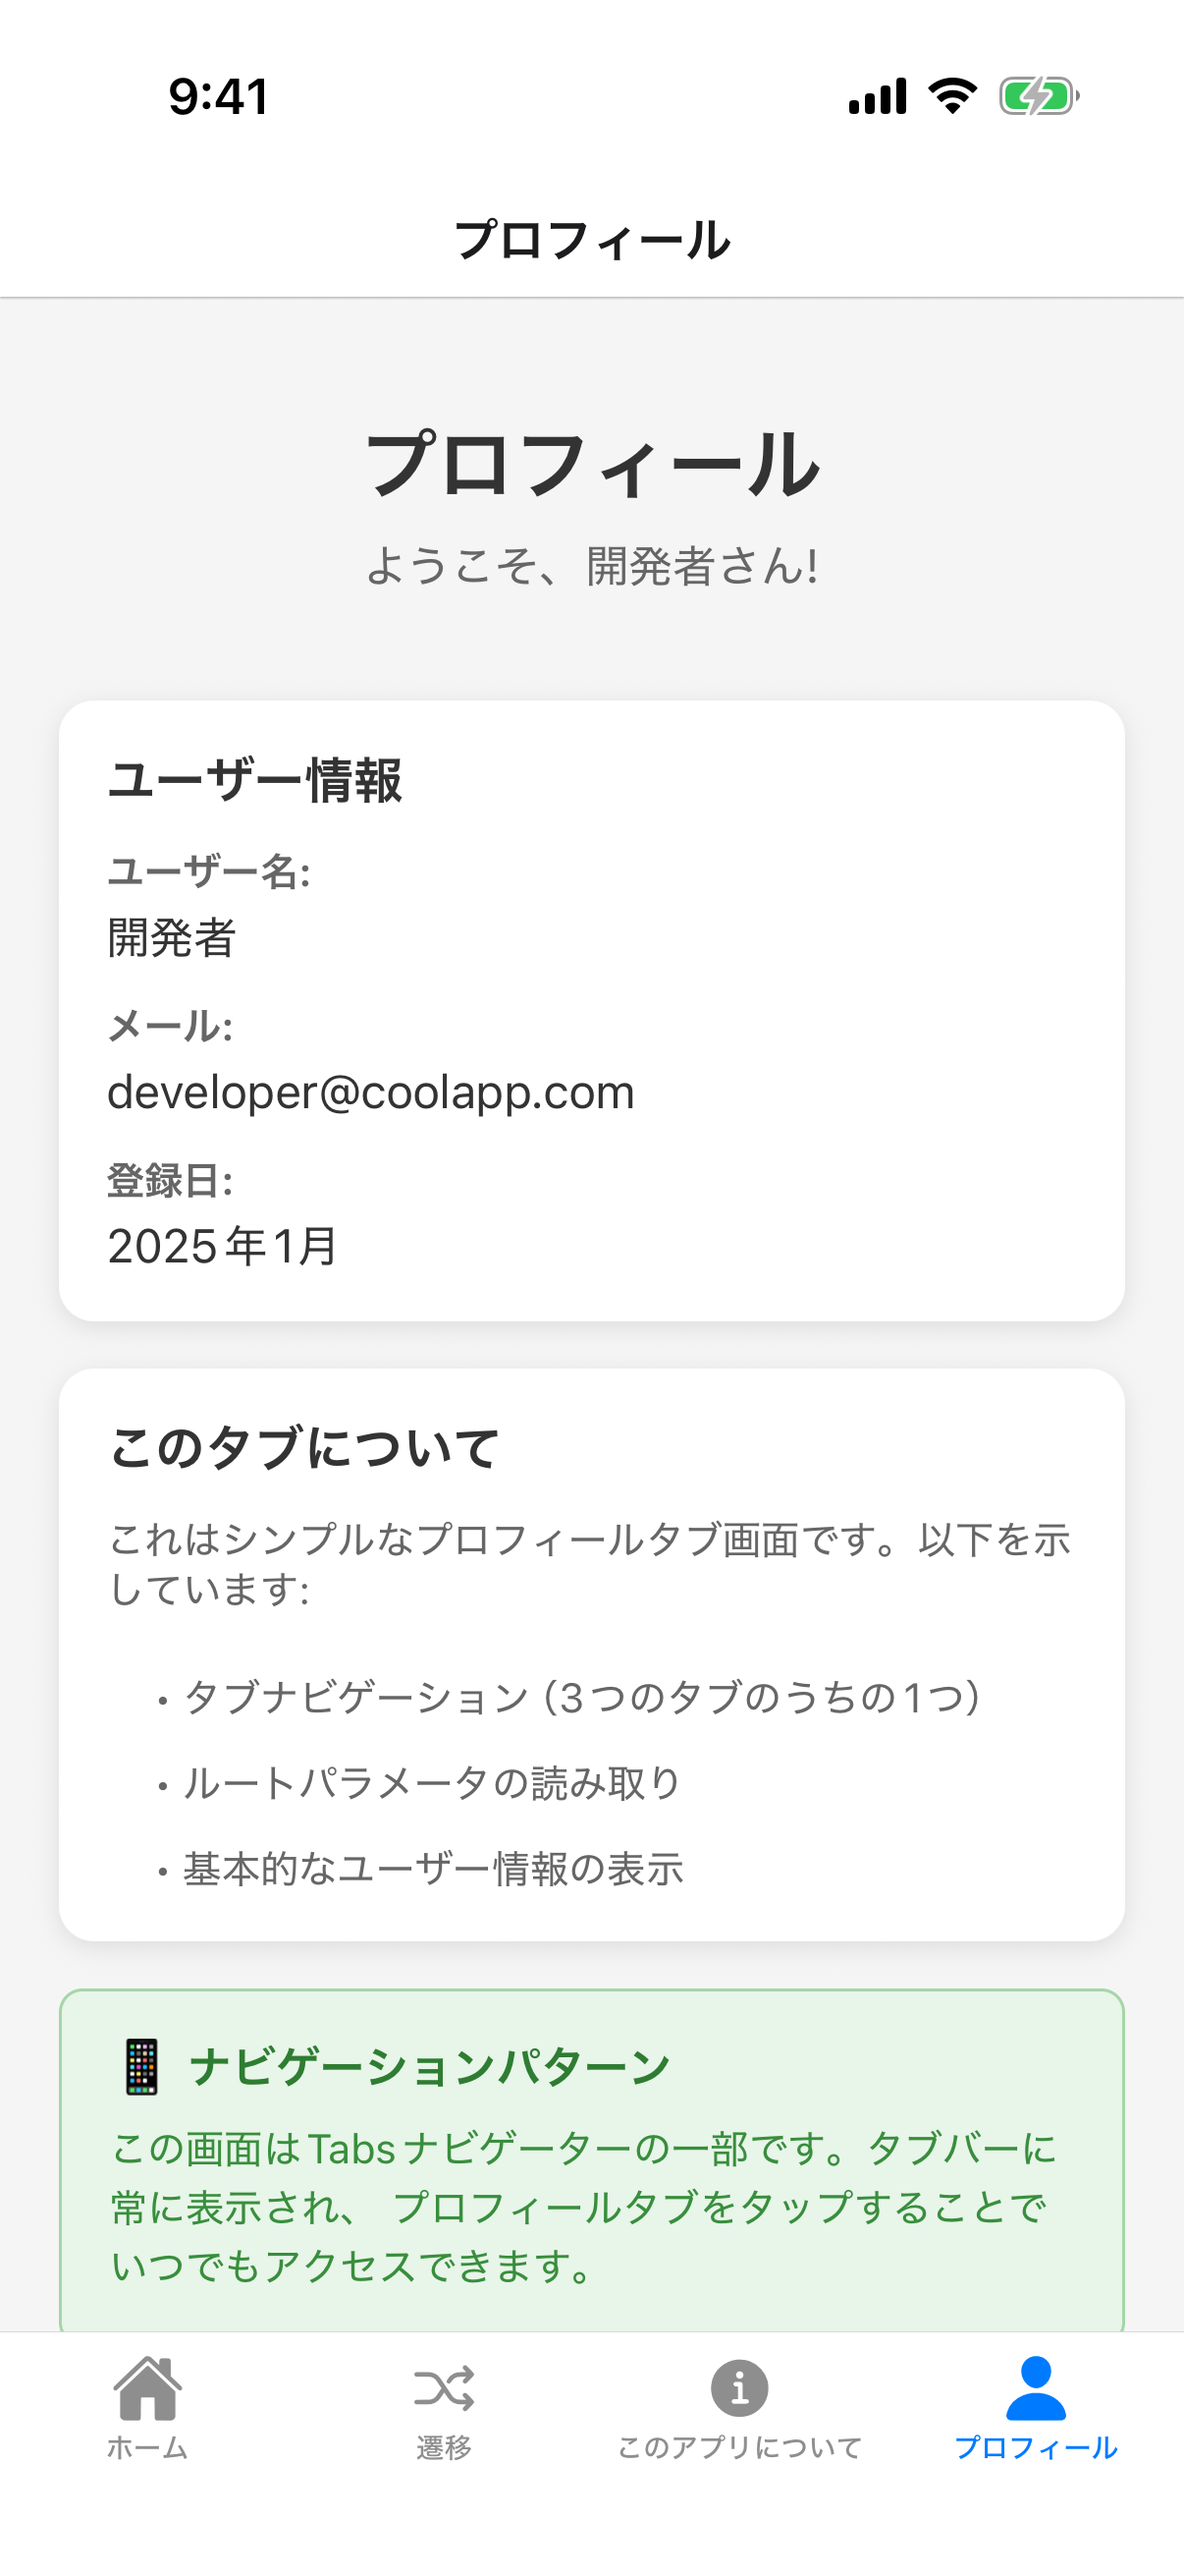
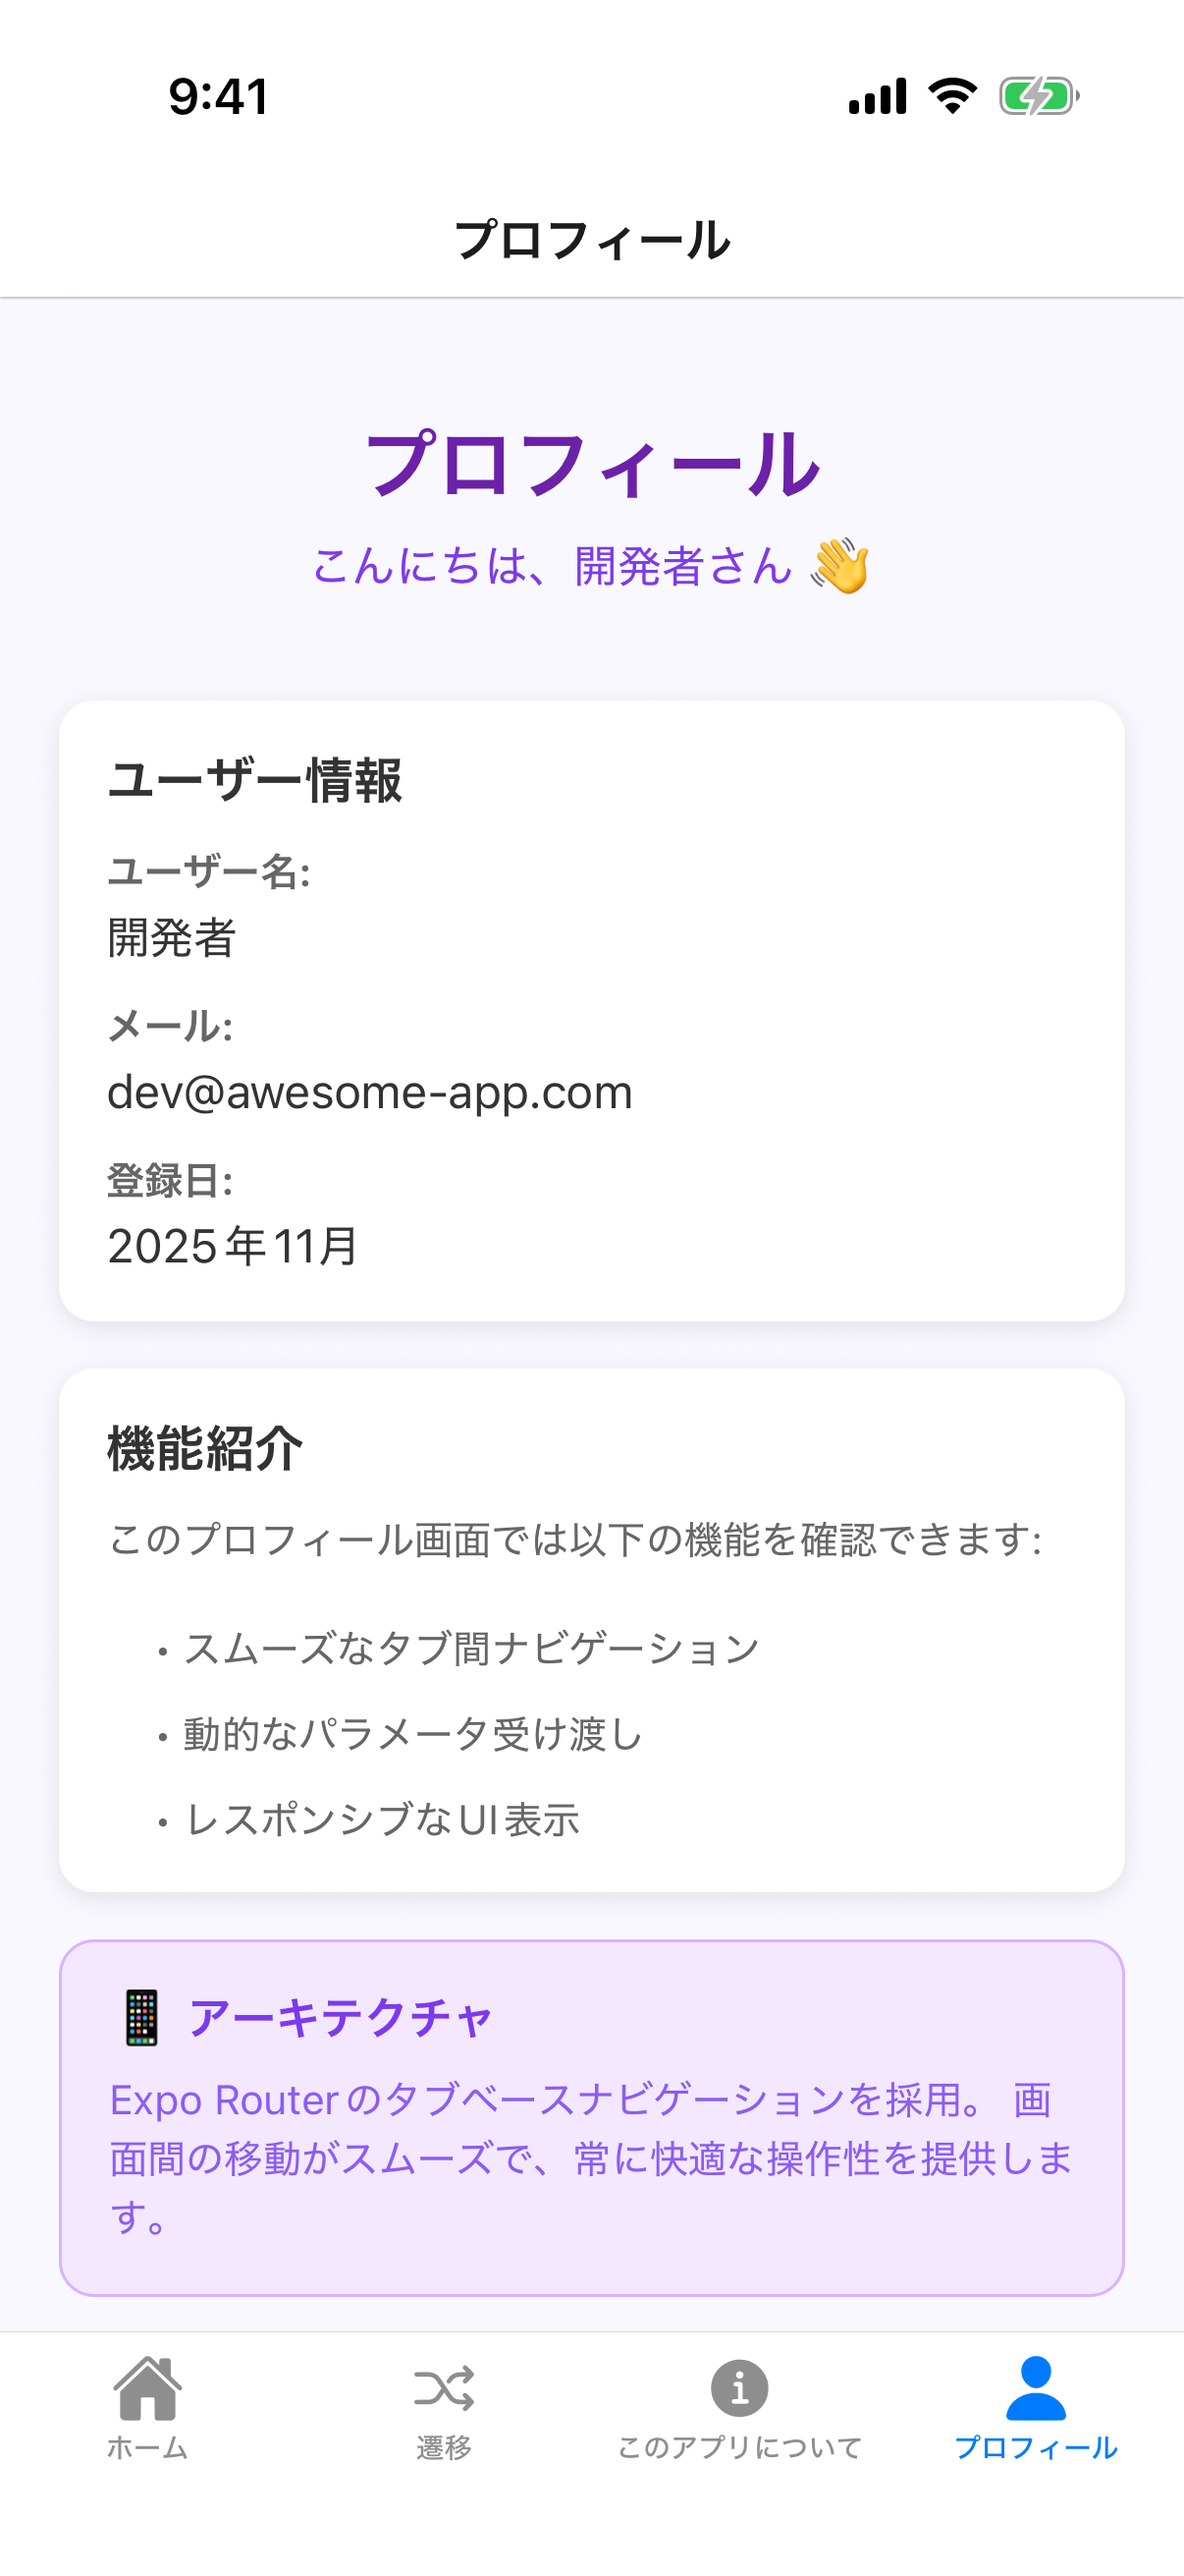
feat: UIのテキストとスタイルを更新し、アニメーション待機を追加

diff --git a/apps/cool-app/app/(tabs)/profile/index.tsx b/apps/cool-app/app/(tabs)/profile/index.tsx
@@ -11,7 +11,7 @@ export default function ProfileScreen() {
       <View style={styles.content}>
         <View style={styles.header}>
           <Text style={styles.title}>プロフィール</Text>
-          <Text style={styles.subtitle}>ようこそ、{username}さん!</Text>
+          <Text style={styles.subtitle}>こんにちは、{username}さん 👋</Text>
         </View>
 
         <View style={styles.card}>
@@ -24,38 +24,38 @@ export default function ProfileScreen() {
 
             <View style={styles.row}>
               <Text style={styles.label}>メール:</Text>
-              <Text style={styles.value}>developer@coolapp.com</Text>
+              <Text style={styles.value}>dev@awesome-app.com</Text>
             </View>
 
             <View style={styles.row}>
               <Text style={styles.label}>登録日:</Text>
-              <Text style={styles.value}>2025年1月</Text>
+              <Text style={styles.value}>2025年11月</Text>
             </View>
           </View>
         </View>
 
         <View style={styles.card}>
-          <Text style={styles.cardTitle}>このタブについて</Text>
+          <Text style={styles.cardTitle}>機能紹介</Text>
           <View style={styles.cardContent}>
             <Text style={styles.infoText}>
-              これはシンプルなプロフィールタブ画面です。以下を示しています:
+              このプロフィール画面では以下の機能を確認できます:
             </Text>
-            <Text style={styles.bullet}>• タブナビゲーション（3つのタブのうちの1つ）</Text>
-            <Text style={styles.bullet}>• ルートパラメータの読み取り</Text>
-            <Text style={styles.bullet}>• 基本的なユーザー情報の表示</Text>
+            <Text style={styles.bullet}>• スムーズなタブ間ナビゲーション</Text>
+            <Text style={styles.bullet}>• 動的なパラメータ受け渡し</Text>
+            <Text style={styles.bullet}>• レスポンシブなUI表示</Text>
           </View>
         </View>
 
         <View style={styles.highlightBox}>
-          <Text style={styles.highlightTitle}>📱 ナビゲーションパターン</Text>
+          <Text style={styles.highlightTitle}>📱 アーキテクチャ</Text>
           <Text style={styles.highlightText}>
-            この画面はTabsナビゲーターの一部です。タブバーに常に表示され、
-            プロフィールタブをタップすることでいつでもアクセスできます。
+            Expo Routerのタブベースナビゲーションを採用。
+            画面間の移動がスムーズで、常に快適な操作性を提供します。
           </Text>
         </View>
 
         <View style={styles.section}>
-          <Text style={styles.sectionTitle}>アプリ情報</Text>
+          <Text style={styles.sectionTitle}>詳細情報</Text>
           <Pressable
             style={styles.licenseButton}
             onPress={() => router.push("/license")}
@@ -72,7 +72,7 @@ export default function ProfileScreen() {
 const styles = StyleSheet.create({
   container: {
     flex: 1,
-    backgroundColor: "#f5f5f5",
+    backgroundColor: "#faf8ff",
   },
   content: {
     padding: 20,
@@ -86,11 +86,11 @@ const styles = StyleSheet.create({
   title: {
     fontSize: 28,
     fontWeight: "bold",
-    color: "#333",
+    color: "#6b21a8",
   },
   subtitle: {
     fontSize: 16,
-    color: "#666",
+    color: "#7c3aed",
   },
   card: {
     backgroundColor: "#fff",
@@ -134,22 +134,22 @@ const styles = StyleSheet.create({
     marginLeft: 16,
   },
   highlightBox: {
-    backgroundColor: "#e8f5e9",
+    backgroundColor: "#f3e8ff",
     padding: 16,
-    borderRadius: 8,
+    borderRadius: 12,
     borderWidth: 1,
-    borderColor: "#a5d6a7",
+    borderColor: "#d8b4fe",
   },
   highlightTitle: {
     fontSize: 16,
     fontWeight: "600",
-    color: "#2e7d32",
+    color: "#7c3aed",
     marginBottom: 8,
   },
   highlightText: {
     fontSize: 14,
     lineHeight: 20,
-    color: "#388e3c",
+    color: "#8b5cf6",
   },
   section: {
     gap: 12,
@@ -176,7 +176,7 @@ const styles = StyleSheet.create({
   licenseButtonText: {
     fontSize: 16,
     fontWeight: "500",
-    color: "#007AFF",
+    color: "#8b5cf6",
   },
   arrow: {
     fontSize: 24,

diff --git a/apps/cool-app/app/(tabs)/about/index.tsx b/apps/cool-app/app/(tabs)/about/index.tsx
@@ -17,19 +17,19 @@ export default function AboutScreen() {
 
       <View style={styles.content}>
         <Text style={styles.text}>
-          これはExpo Routerのナビゲーションパターンを学習するためのデモアプリです。
+          モダンなナビゲーションパターンを体験できるデモアプリケーションです。
         </Text>
 
         <View style={styles.infoBox}>
           <Text style={styles.infoTitle}>📱 タブ内プッシュ遷移デモ</Text>
           <Text style={styles.infoText}>
-            このタブにも独自のスタックナビゲーターがあります。
-            下記の技術スタックをタップすると、タブバーが表示されたまま詳細画面に遷移します。
+            各タブに独立したスタックナビゲーションを実装。
+            技術スタックをタップすると、タブバーを維持したまま詳細画面へ遷移できます。
           </Text>
         </View>
 
-        <Text style={styles.sectionTitle}>使用技術</Text>
-        <Text style={styles.subtitle}>タップして詳細を表示</Text>
+        <Text style={styles.sectionTitle}>テクノロジースタック</Text>
+        <Text style={styles.subtitle}>各技術の詳細をチェック ✨</Text>
         {TECHNOLOGIES.map((tech) => (
           <Pressable
             key={tech.name}
@@ -45,7 +45,7 @@ export default function AboutScreen() {
       <View style={styles.navigation}>
         <Link href="/profile" asChild>
           <Pressable style={styles.button}>
-            <Text style={styles.buttonText}>プロフィールを見る</Text>
+            <Text style={styles.buttonText}>プロフィールページへ</Text>
           </Pressable>
         </Link>
 
@@ -54,7 +54,7 @@ export default function AboutScreen() {
           onPress={() => router.push("/help")}
         >
           <Text style={[styles.buttonText, styles.secondaryButtonText]}>
-            ヘルプを開く
+            サポートセンター
           </Text>
         </Pressable>
       </View>
@@ -65,13 +65,13 @@ export default function AboutScreen() {
 const styles = StyleSheet.create({
   container: {
     flex: 1,
-    backgroundColor: "#f5f5f5",
+    backgroundColor: "#faf8ff",
   },
   title: {
     fontSize: 28,
     fontWeight: "bold",
     marginBottom: 20,
-    color: "#333",
+    color: "#6b21a8",
     padding: 20,
     paddingBottom: 0,
   },
@@ -119,22 +119,22 @@ const styles = StyleSheet.create({
     color: "#ccc",
   },
   infoBox: {
-    backgroundColor: "#e3f2fd",
+    backgroundColor: "#f3e8ff",
     padding: 16,
-    borderRadius: 8,
+    borderRadius: 12,
     borderWidth: 1,
-    borderColor: "#90caf9",
+    borderColor: "#d8b4fe",
     gap: 8,
   },
   infoTitle: {
     fontSize: 16,
     fontWeight: "600",
-    color: "#1565c0",
+    color: "#7c3aed",
   },
   infoText: {
     fontSize: 14,
     lineHeight: 20,
-    color: "#1976d2",
+    color: "#8b5cf6",
   },
   navigation: {
     padding: 20,
@@ -143,9 +143,14 @@ const styles = StyleSheet.create({
   button: {
     paddingVertical: 14,
     paddingHorizontal: 24,
-    backgroundColor: "#007AFF",
-    borderRadius: 8,
+    backgroundColor: "#8b5cf6",
+    borderRadius: 12,
     alignItems: "center",
+    shadowColor: "#8b5cf6",
+    shadowOffset: { width: 0, height: 2 },
+    shadowOpacity: 0.3,
+    shadowRadius: 4,
+    elevation: 4,
   },
   buttonText: {
     color: "#fff",
@@ -155,9 +160,9 @@ const styles = StyleSheet.create({
   secondaryButton: {
     backgroundColor: "#fff",
     borderWidth: 2,
-    borderColor: "#007AFF",
+    borderColor: "#a855f7",
   },
   secondaryButtonText: {
-    color: "#007AFF",
+    color: "#8b5cf6",
   },
 });

diff --git a/apps/cool-app/app/(tabs)/home/index.tsx b/apps/cool-app/app/(tabs)/home/index.tsx
@@ -4,9 +4,9 @@ import { Greeting, formatMessage, getGreetingTime } from "cool-package";
 
 const ARTICLES = [
   { id: "1", title: "Expo Routerの始め方", category: "チュートリアル" },
-  { id: "2", title: "Bunモノレポのベストプラクティス", category: "ガイド" },
-  { id: "3", title: "React Nativeナビゲーションパターン", category: "チュートリアル" },
-  { id: "4", title: "TypeScriptのヒントとコツ", category: "ヒント" },
+  { id: "2", title: "モノレポで始める快適開発", category: "ガイド" },
+  { id: "3", title: "モダンなナビゲーション実装", category: "チュートリアル" },
+  { id: "4", title: "型安全な開発のコツ", category: "ヒント" },
 ];
 
 export default function HomeScreen() {
@@ -19,7 +19,7 @@ export default function HomeScreen() {
         <Text style={styles.subtitle}>{formatMessage(getGreetingTime())}</Text>
         <Greeting name="開発者" />
         <Text style={styles.info}>
-          このコンポーネントはcool-packageワークスペースからインポートされています
+          モノレポアーキテクチャで構築された快適な開発環境 🚀
         </Text>
       </View>
 
@@ -46,7 +46,7 @@ export default function HomeScreen() {
       </View>
 
       <View style={styles.section}>
-        <Text style={styles.sectionTitle}>その他のナビゲーション:</Text>
+        <Text style={styles.sectionTitle}>🔗 クイックリンク</Text>
 
         <Link href="/about" style={styles.link}>
           <Text style={styles.linkText}>このアプリについて</Text>
@@ -57,7 +57,7 @@ export default function HomeScreen() {
         </Link>
 
         <Link href="/help" style={styles.link}>
-          <Text style={styles.linkText}>ヘルプを開く</Text>
+          <Text style={styles.linkText}>サポートページ</Text>
         </Link>
 
         <Link href="/login" style={styles.link}>
@@ -71,7 +71,7 @@ export default function HomeScreen() {
 const styles = StyleSheet.create({
   scrollView: {
     flex: 1,
-    backgroundColor: "#f5f5f5",
+    backgroundColor: "#faf8ff",
   },
   container: {
     padding: 20,
@@ -81,14 +81,23 @@ const styles = StyleSheet.create({
     alignItems: "center",
     gap: 12,
     paddingVertical: 20,
+    backgroundColor: "#fff",
+    borderRadius: 16,
+    padding: 24,
+    shadowColor: "#000",
+    shadowOffset: { width: 0, height: 2 },
+    shadowOpacity: 0.08,
+    shadowRadius: 8,
+    elevation: 3,
   },
   title: {
-    fontSize: 24,
+    fontSize: 28,
     fontWeight: "bold",
+    color: "#6b21a8",
   },
   subtitle: {
     fontSize: 16,
-    color: "#666",
+    color: "#7c3aed",
   },
   info: {
     fontSize: 12,
@@ -134,20 +143,25 @@ const styles = StyleSheet.create({
   },
   articleCategory: {
     fontSize: 12,
-    color: "#007AFF",
+    color: "#a855f7",
     fontWeight: "500",
   },
   chevron: {
     fontSize: 24,
-    color: "#999",
+    color: "#c084fc",
     fontWeight: "300",
     marginLeft: 12,
   },
   link: {
     paddingVertical: 12,
     paddingHorizontal: 24,
-    backgroundColor: "#34C759",
-    borderRadius: 8,
+    backgroundColor: "#8b5cf6",
+    borderRadius: 12,
+    shadowColor: "#8b5cf6",
+    shadowOffset: { width: 0, height: 2 },
+    shadowOpacity: 0.3,
+    shadowRadius: 4,
+    elevation: 4,
   },
   linkText: {
     color: "#fff",

diff --git a/apps/cool-app/app/(modals)/help.tsx b/apps/cool-app/app/(modals)/help.tsx
@@ -15,7 +15,7 @@ export default function HelpScreen() {
         <View style={styles.section}>
           <Text style={styles.sectionTitle}>📱 このアプリについて</Text>
           <Text style={styles.text}>
-            このアプリは Expo Router を使った React Native のナビゲーションパターンを学習するためのデモアプリです。
+            このアプリは Expo Router を使った React Native のナビゲーションパターンを学習するためのデモアプリです
           </Text>
         </View>
 
@@ -24,7 +24,7 @@ export default function HelpScreen() {
           <View style={styles.item}>
             <Text style={styles.itemTitle}>ホーム</Text>
             <Text style={styles.itemText}>
-              記事一覧と詳細画面。ネストされたスタックナビゲーションの例。
+              記事一覧と詳細画面。ネストされたスタックナビゲーションの例
             </Text>
           </View>
           <View style={styles.item}>

diff --git a/apps/cool-app/app/_layout.tsx b/apps/cool-app/app/_layout.tsx
@@ -28,6 +28,13 @@ export default function RootLayout() {
           title: "ライセンス情報"
         }}
       />
+      <Stack.Screen
+        name="(screens)/login"
+        options={{
+          presentation: "card",
+          title: "ログイン"
+        }}
+      />
     </Stack>
   );
 }
